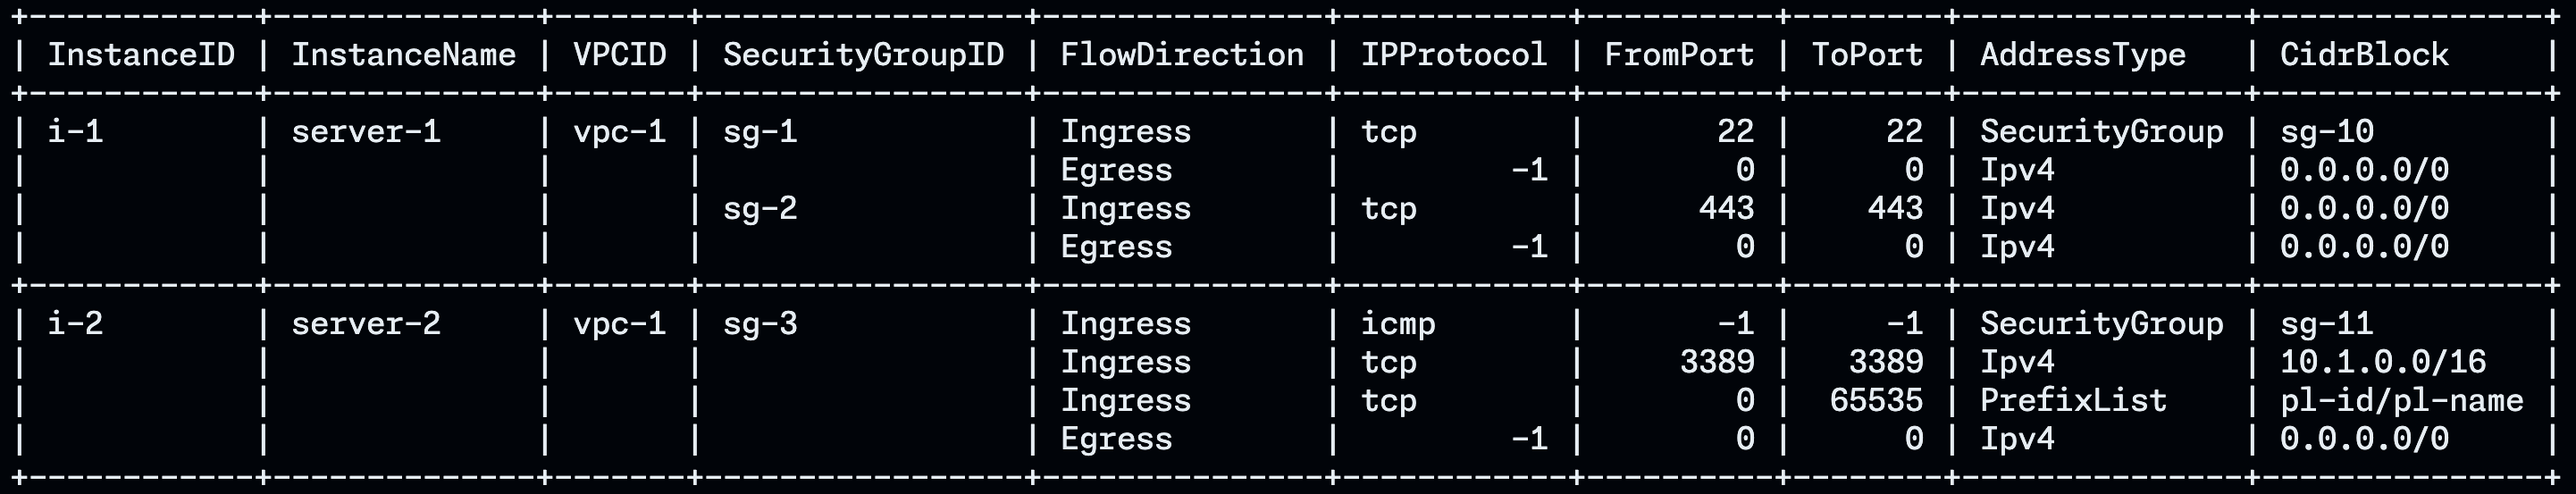
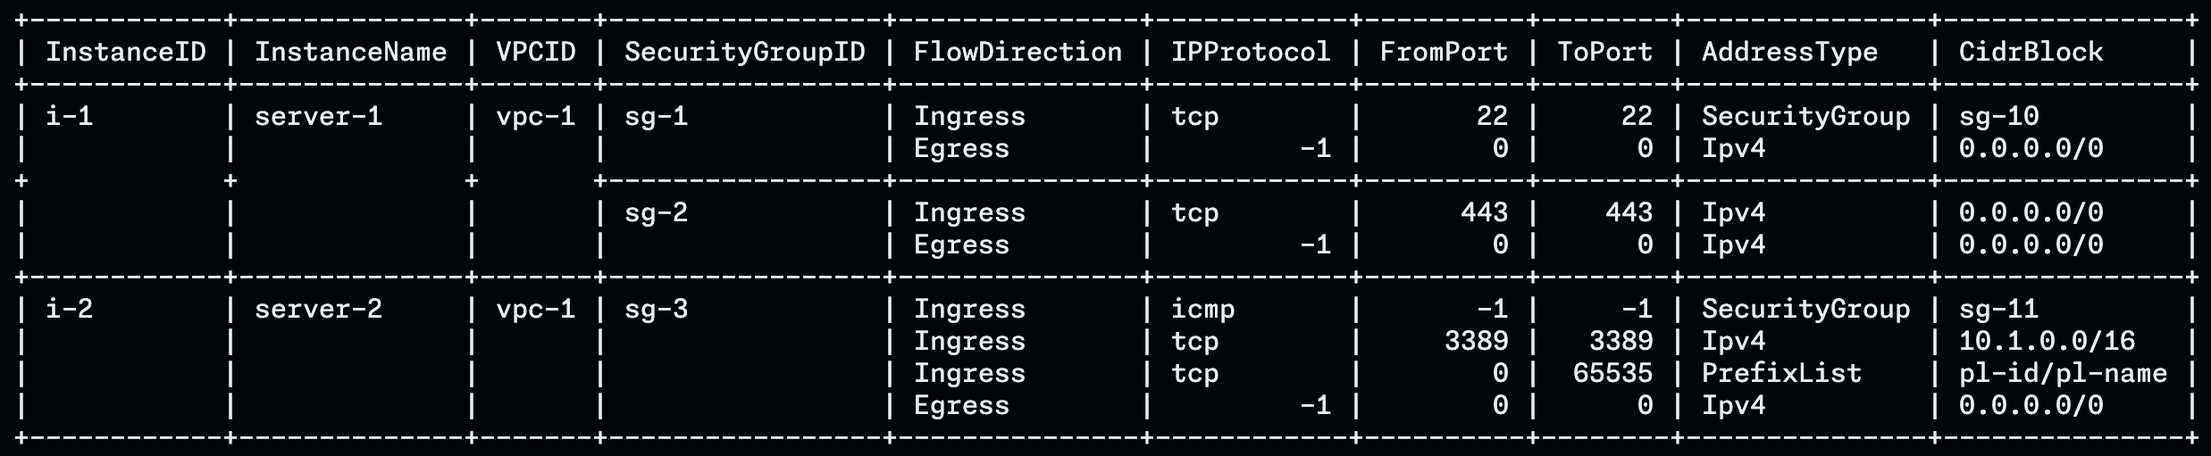
feat: improve presentation of `FormatCompressedText`

diff --git a/mintab_test.go b/mintab_test.go
@@ -420,6 +420,7 @@ func TestTable_Out(t *testing.T) {
 +------------+--------------+-------+-----------------+---------------+------------+----------+--------+---------------+---------------+
 | i-1        | server-1     | vpc-1 | sg-1            | Ingress       | tcp        |       22 |     22 | SecurityGroup | sg-10         |
 |            |              |       |                 | Egress        |         -1 |        0 |      0 | Ipv4          | 0.0.0.0/0     |
++            +              +       +-----------------+---------------+------------+----------+--------+---------------+---------------+
 |            |              |       | sg-2            | Ingress       | tcp        |      443 |    443 | Ipv4          | 0.0.0.0/0     |
 |            |              |       |                 | Egress        |         -1 |        0 |      0 | Ipv4          | 0.0.0.0/0     |
 +------------+--------------+-------+-----------------+---------------+------------+----------+--------+---------------+---------------+
@@ -694,6 +695,7 @@ func TestTable_printData(t *testing.T) {
 			},
 			want: `| i-1        | server-1     | vpc-1 | sg-1            | Ingress       | tcp        |       22 |     22 | SecurityGroup | sg-10         |
 |            |              |       |                 | Egress        |         -1 |        0 |      0 | Ipv4          | 0.0.0.0/0     |
++            +              +       +-----------------+---------------+------------+----------+--------+---------------+---------------+
 |            |              |       | sg-2            | Ingress       | tcp        |      443 |    443 | Ipv4          | 0.0.0.0/0     |
 |            |              |       |                 | Egress        |         -1 |        0 |      0 | Ipv4          | 0.0.0.0/0     |
 +------------+--------------+-------+-----------------+---------------+------------+----------+--------+---------------+---------------+

diff --git a/mintab.go b/mintab.go
@@ -219,31 +219,40 @@ func (t *Table) printHeader() {
 
 // printData renders the table data with dynamic conditional borders.
 func (t *Table) printData() {
+	var prev []string
 	for ri, row := range t.data {
-		if ri > 0 {
-			if t.format == FormatText {
-				t.printDataBorder(row)
+		lines := 1
+		splitedCells := make([][]string, len(row))
+		hasBorder := false
+		for fi, field := range row {
+			splitedCell := strings.Split(field, "\n")
+			splitedCells[fi] = splitedCell
+			if len(splitedCell) > lines {
+				lines = len(splitedCell)
 			}
-			if t.format == FormatCompressedText && row[0] != "" {
-				t.printBorder()
+			if ri == 0 {
+				continue
+			}
+			if t.format == FormatCompressedText {
+				if field != "" && (len(prev) <= fi || prev[fi] == "") {
+					hasBorder = true
+				}
+			}
+			if t.format == FormatText {
+				hasBorder = true
 			}
 		}
-		lines := 1
-		splitFields := make([][]string, len(row))
-		for fi, field := range row {
-			splitFields[fi] = strings.Split(field, "\n")
-			if len(splitFields[fi]) > lines {
-				lines = len(splitFields[fi])
-			}
+		if hasBorder {
+			t.printDataBorder(row)
 		}
 		for line := 0; line < lines; line++ {
 			t.builder.Reset()
 			t.builder.WriteString("|")
-			for sfi, splitField := range splitFields {
+			for sfi, splitedCell := range splitedCells {
 				margin := t.getMargin()
 				t.builder.WriteString(margin)
-				if line < len(splitField) {
-					t.builder.WriteString(pad(splitField[line], t.columnWidths[sfi]))
+				if line < len(splitedCell) {
+					t.builder.WriteString(pad(splitedCell[line], t.columnWidths[sfi]))
 				} else {
 					t.builder.WriteString(pad("", t.columnWidths[sfi]))
 				}
@@ -252,6 +261,7 @@ func (t *Table) printData() {
 			}
 			fmt.Fprintln(t.writer, t.builder.String())
 		}
+		prev = row
 	}
 }
 

diff --git a/_examples/main.go b/_examples/main.go
@@ -363,6 +363,7 @@ func main() {
 		+------------+--------------+-------+-----------------+---------------+------------+----------+--------+---------------+---------------+
 		| i-1        | server-1     | vpc-1 | sg-1            | Ingress       | tcp        |       22 |     22 | SecurityGroup | sg-10         |
 		|            |              |       |                 | Egress        |         -1 |        0 |      0 | Ipv4          | 0.0.0.0/0     |
+		+            +              +       +-----------------+---------------+------------+----------+--------+---------------+---------------+
 		|            |              |       | sg-2            | Ingress       | tcp        |      443 |    443 | Ipv4          | 0.0.0.0/0     |
 		|            |              |       |                 | Egress        |         -1 |        0 |      0 | Ipv4          | 0.0.0.0/0     |
 		+------------+--------------+-------+-----------------+---------------+------------+----------+--------+---------------+---------------+
@@ -557,16 +558,4 @@ func main() {
 		| i-2        | server-2     | vpc-1 | sg-3            | Egress        |         -1 |        0 |      0 | Ipv4          | 0.0.0.0/0     |
 		+------------+--------------+-------+-----------------+---------------+------------+----------+--------+---------------+---------------+
 	*/
-
-	table = mintab.New(os.Stdout, mintab.WithFormat(mintab.FormatMarkdown), mintab.WithMergeFields([]int{0, 1, 2, 3}))
-	if err := table.Load(s2); err != nil {
-		log.Fatal(err)
-	}
-	table.Out()
-
-	table = mintab.New(os.Stdout, mintab.WithFormat(mintab.FormatBacklog), mintab.WithMergeFields([]int{0, 1, 2, 3}))
-	if err := table.Load(s2); err != nil {
-		log.Fatal(err)
-	}
-	table.Out()
 }
